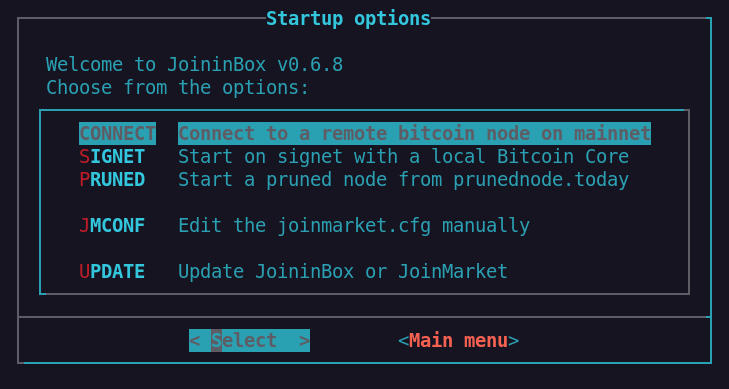
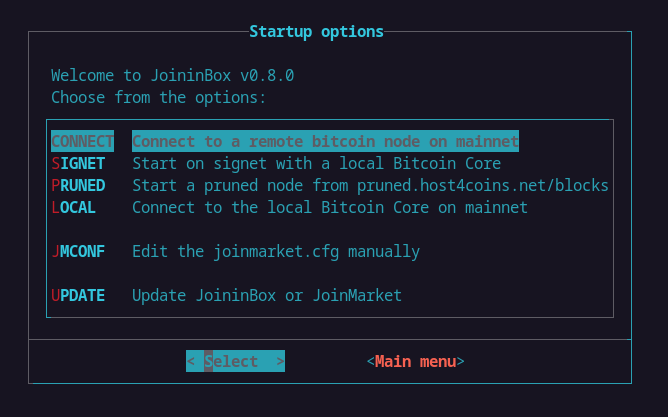
docs: update readme and screenshots

Changed region(s): [[0.0, 0.0308, 0.988, 0.9563], [0.0599, 0.1542, 0.479, 0.2468]]

diff --git a/README.md b/README.md
@@ -22,6 +22,9 @@ A minimalistic, security focused linux environment for JoinMarket with a termina
 
 - [Features](#features)
 - [Required Hardware](#required-hardware)
+  - [A computer running a Debian / Ubuntu Linux flavour.](#a-computer-running-a-debian--ubuntu-linux-flavour)
+  - [RaspberryPi 4 or 3](#raspberrypi-4-or-3)
+  - [VPS eg: host4coins.net](#vps-eg-host4coinsnet)
 - [Set up using an SDcard image](#set-up-using-an-sdcard-image)
 - [Set up JoininBox on Linux](#set-up-joininbox-on-linux)
   - [Tested environments](#tested-environments)
@@ -40,7 +43,7 @@ A minimalistic, security focused linux environment for JoinMarket with a termina
 * Connect remotely to a Bitcoin Core node
   * RaspiBlitz over [LAN or Tor](prepare_remote_node.md#raspiblitz)
   * RoninDojo over [LAN or Tor](prepare_remote_node.md#ronindojo)
-* Start a pruned node from https://prunednode.today/
+* Start a pruned node from https://pruned.host4coins.net/blocks
 * JoininBox is part the RaspiBlitz SERVICES
 
 **The addresses, transactions and balances of JoinMarket can be seen in the watch-only wallet of the connected node.**
@@ -48,12 +51,18 @@ A minimalistic, security focused linux environment for JoinMarket with a termina
   * to protect privacy in case of physical access use disk encryption
 
 ## Required Hardware
-* RaspberryPi 4 ([alternatively any other computer running a Debian Linux flavour](#tested-environments))
+### A computer running a Debian / Ubuntu Linux flavour. 
+* See the [tested-environments](#tested-environments).
+### RaspberryPi 4 or 3
 * Power supply (5V 3A and above recommended)
 * Heatsink case
-* 16GB SDcard (minimum) - 32GB to use a pruned node
+* 32 GB Endurence type SDcard
 * [(USB SSD to run a pruned bitcoin node locally)](FAQ.md#usb-ssd-recommendation)
-* [other tested hardware ](#tested-environments)
+### VPS eg: [host4coins.net](https://host4coins.net/)
+Recommended minimum:
+* 1 GB RAM
+* 1 vCPU
+* 32 GB SSD
 
 **JoininBox operates on the minimum viable hardware under the assumption that the seed (and passphrase) of the wallets used is safely backed up and can be used to recover the funds!**
 
@@ -87,7 +96,7 @@ A minimalistic, security focused linux environment for JoinMarket with a termina
 * next will be presented with the CONFIG menu to
   * Connect to a remote bitcoin node on mainnet
   * Try JoinMarket on signet
-  * Start a pruned node from [prunednode.today](https://prunednode.today)
+  * Start a pruned node from [pruned.host4coins.net/blocks](https://pruned.host4coins.net/blocks)
   * Edit the joinmarket.cfg manually
   * Update JoininBox or JoinMarket
 
@@ -105,7 +114,7 @@ A minimalistic, security focused linux environment for JoinMarket with a termina
 * Latest
   * Debian Bullseye X86_64 desktop ([images and logs available in GitHub actions](https://github.com/openoms/joininbox/actions?query=workflow%3Aamd64-image-build++branch%3Amaster+is%3Asuccess))
   * Raspberry Pi 4 running 64bit Debian Bullseye ([images and logs available in GitHub actions](https://github.com/openoms/joininbox/actions?query=workflow%3Aarm64-rpi-image-build++branch%3Amaster+is%3Asuccess++))
-  * Ubuntu 22.04 X86_64 desktop (virtual machine)
+  * Ubuntu 22.04 Jammy X86_64 desktop (virtual machine)
 * Previous versions tested
   * [Raspberry Pi 4 running 64bit Debian Buster](FAQ.md#build-the-sdcard-image)
   * [Hardkernel Odroid XU4/HC1 running 32bit Armbian Buster](FAQ.md#set-up-armbian-on-the-hardkernel-odroid-xu4)
